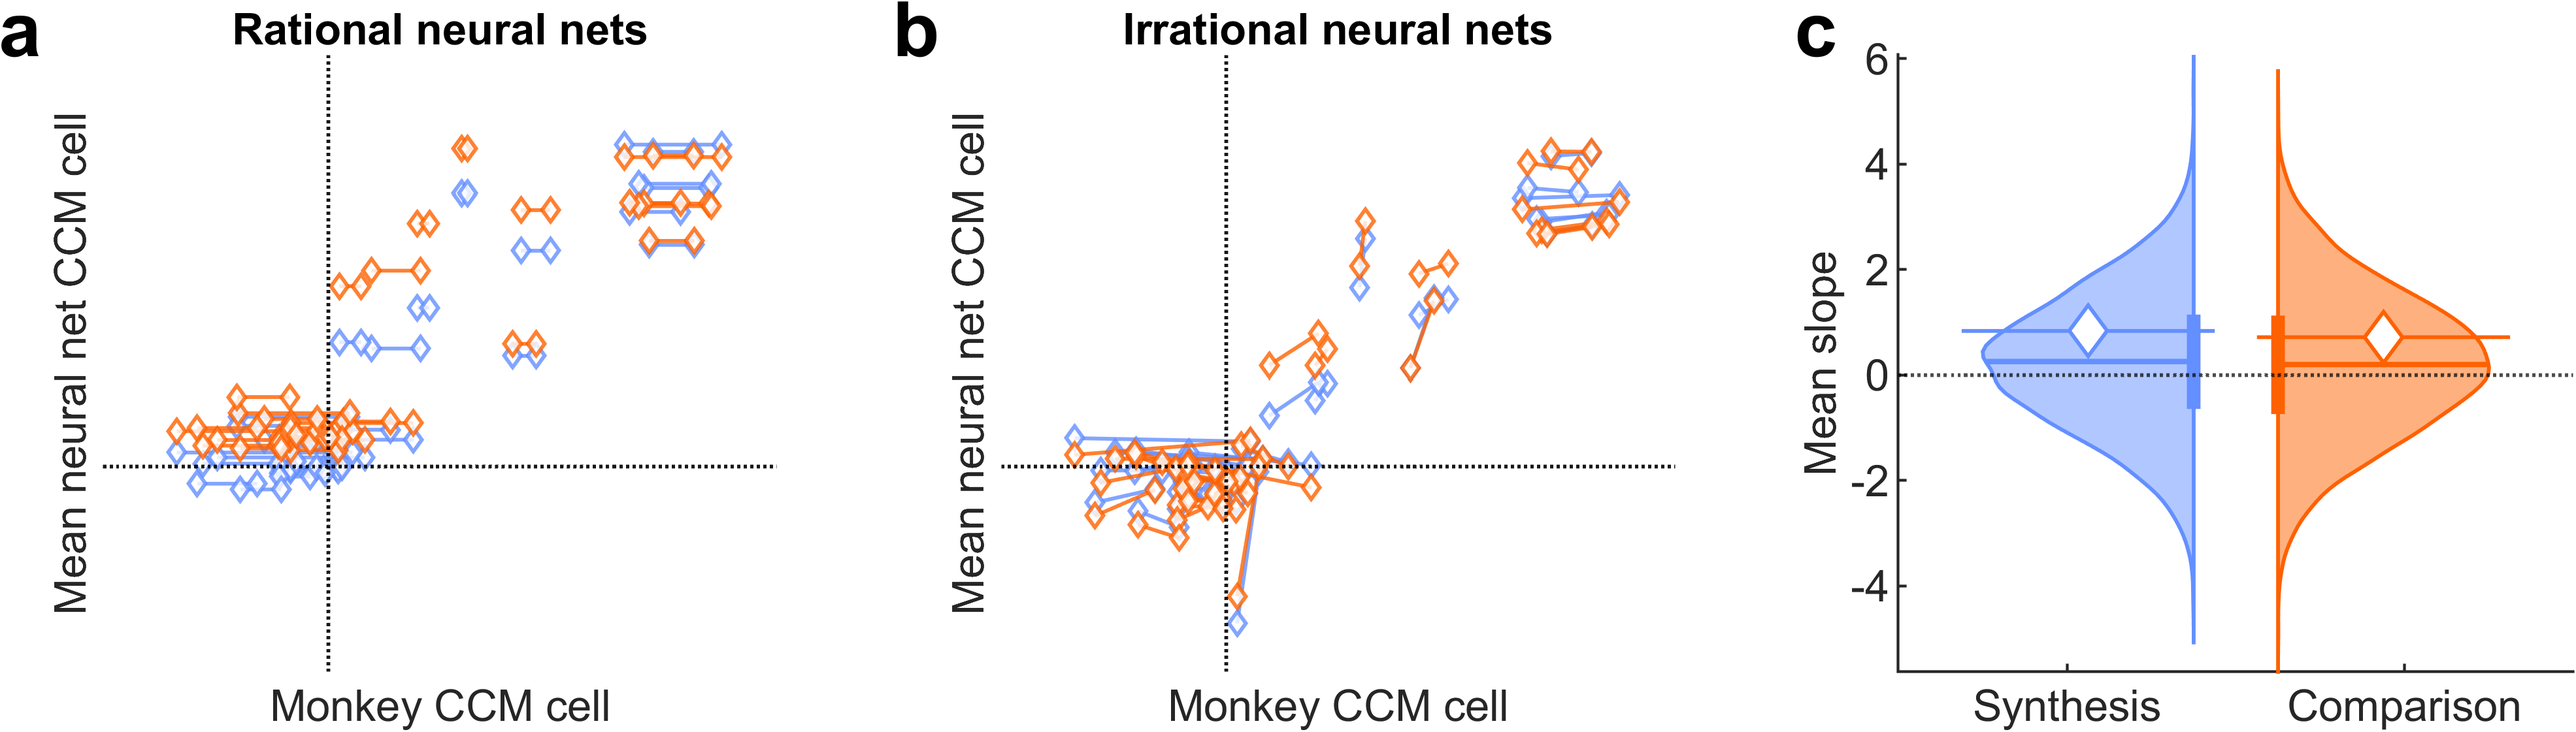
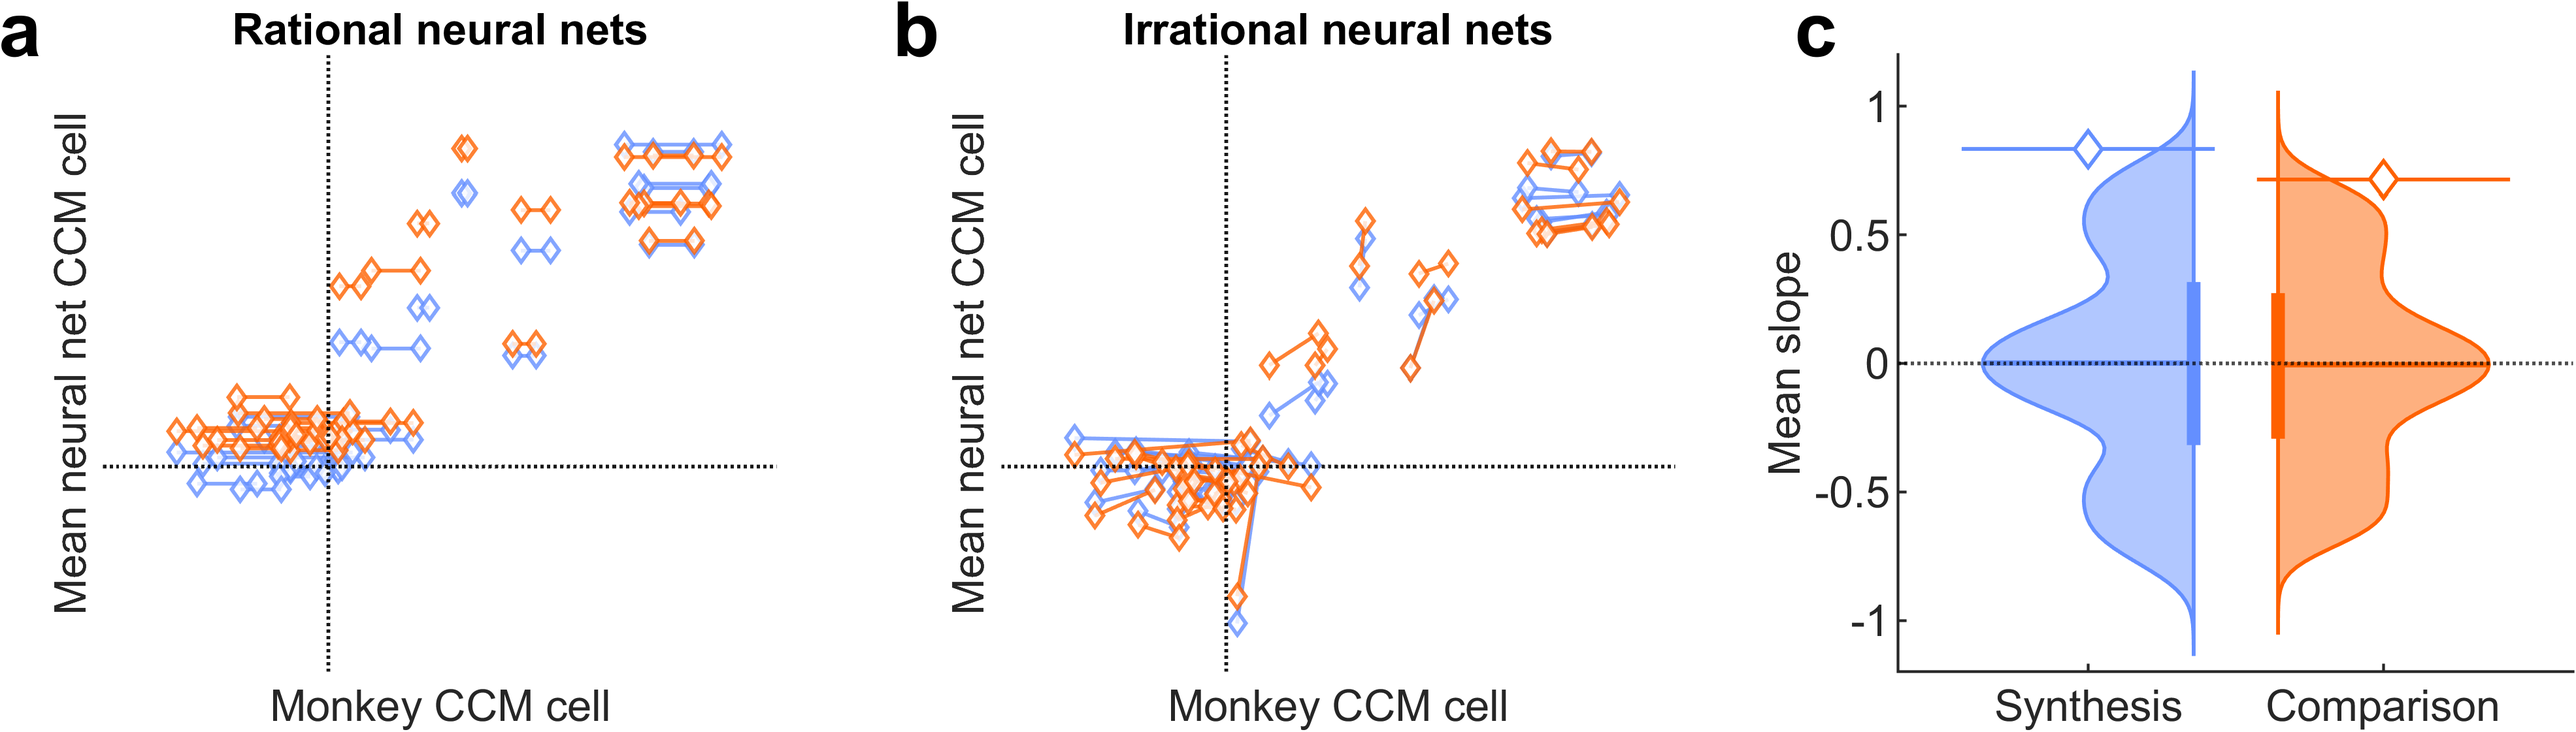
Corrected H0 for mean CCM slope

diff --git a/src/plots/subplots/plotCCMslopesDistrib.m b/src/plots/subplots/plotCCMslopesDistrib.m
@@ -31,7 +31,7 @@ arguments
     plot_options.n_MonteCarlo_simu (1, 1) double = 1e4
     plot_options.line_width (1, 1) double = 0.7
     plot_options.x_shift (1, 1) double = 0.1
-    plot_options.marker_size (1, 1) double = 7
+    plot_options.marker_size (1, 1) double = 5
 end
 
 hold(ax, "on");
@@ -49,7 +49,7 @@ select_CCM_cell(:, 7) = false;
 select_CCM_cell(:, 8) = false;
 select_CCM_cell = triu(select_CCM_cell, 1);
 select_CCM_cell = select_CCM_cell(:);
-n_cells = sum(select_CCM_cell);
+n_cells = 2 * sum(select_CCM_cell);
 
 % Select cells in monkeys' CCMs
 CCM_option_Franck = MonkeyNeuralGeometry.OFC.Franck.CCM_option(:);
@@ -83,12 +83,16 @@ for i_config = 9:10
     mean_slope = mean(slopes);
 
     % Simulate the null hypothesis
-    slopes_H0 = NaN(2 * n_cells, plot_options.n_MonteCarlo_simu);
+    slopes_H0 = NaN(n_cells, plot_options.n_MonteCarlo_simu);
+    CCM_both_monkeys = [CCM_comp_Franck, CCM_comp_Miles];
     for i_simu = 1:plot_options.n_MonteCarlo_simu
         % Shuffle the model CCM cells
-        CCM_comp_Franck_shuffled = CCM_comp_Franck(randperm(2 * n_cells));
-        CCM_comp_Miles_shuffled = CCM_comp_Miles(randperm(2 * n_cells));
-        slopes_H0(:, i_simu) = (CCM_comp_Franck_shuffled - CCM_comp_Miles_shuffled) ./ (CCM_Franck - CCM_Miles);
+        CCM_both_monkeys_shuffled = NaN(size(CCM_both_monkeys));
+        for i_cell = 1:n_cells
+            CCM_both_monkeys_shuffled(i_cell, :) = CCM_both_monkeys(i_cell, randperm(2));
+        end
+        % Store the mean slope
+        slopes_H0(:, i_simu) = (CCM_both_monkeys_shuffled(:, 1) - CCM_both_monkeys_shuffled(:, 2)) ./ (CCM_Franck - CCM_Miles);
     end
     distrib_slopes_H0 = mean(slopes_H0, 1)';
 
@@ -136,7 +140,8 @@ end
 
 % Aesthetics
 xlim(ax, [-0.8, 0.8]);
-xticks(ax, plot_options.x_shift * 4 * [-1, 1]);
+ylim(ax, [-1.2, 1.2]);
+xticks(ax, plot_options.x_shift * 3.5 * [-1, 1]);
 xticklabels(ax, ["Synthesis", "Comparison"]);
 ylabel(ax, "Mean slope");
 yline(ax, 0, "k:", LineWidth=plot_options.line_width);

diff --git a/src/plots/figS5_CCM_slopes.m b/src/plots/figS5_CCM_slopes.m
@@ -33,8 +33,6 @@ MonkeyNeuralGeometry = load(fullfile(getPath("MonkeyData"), "NeuralGeometry.mat"
 
 %% === Generate figure ====================================================
 
-close all;
-
 % Initialize the figure
 f = figure(...
     Name = "Figure S5: comparison of CCM entries across monkeys", ...
